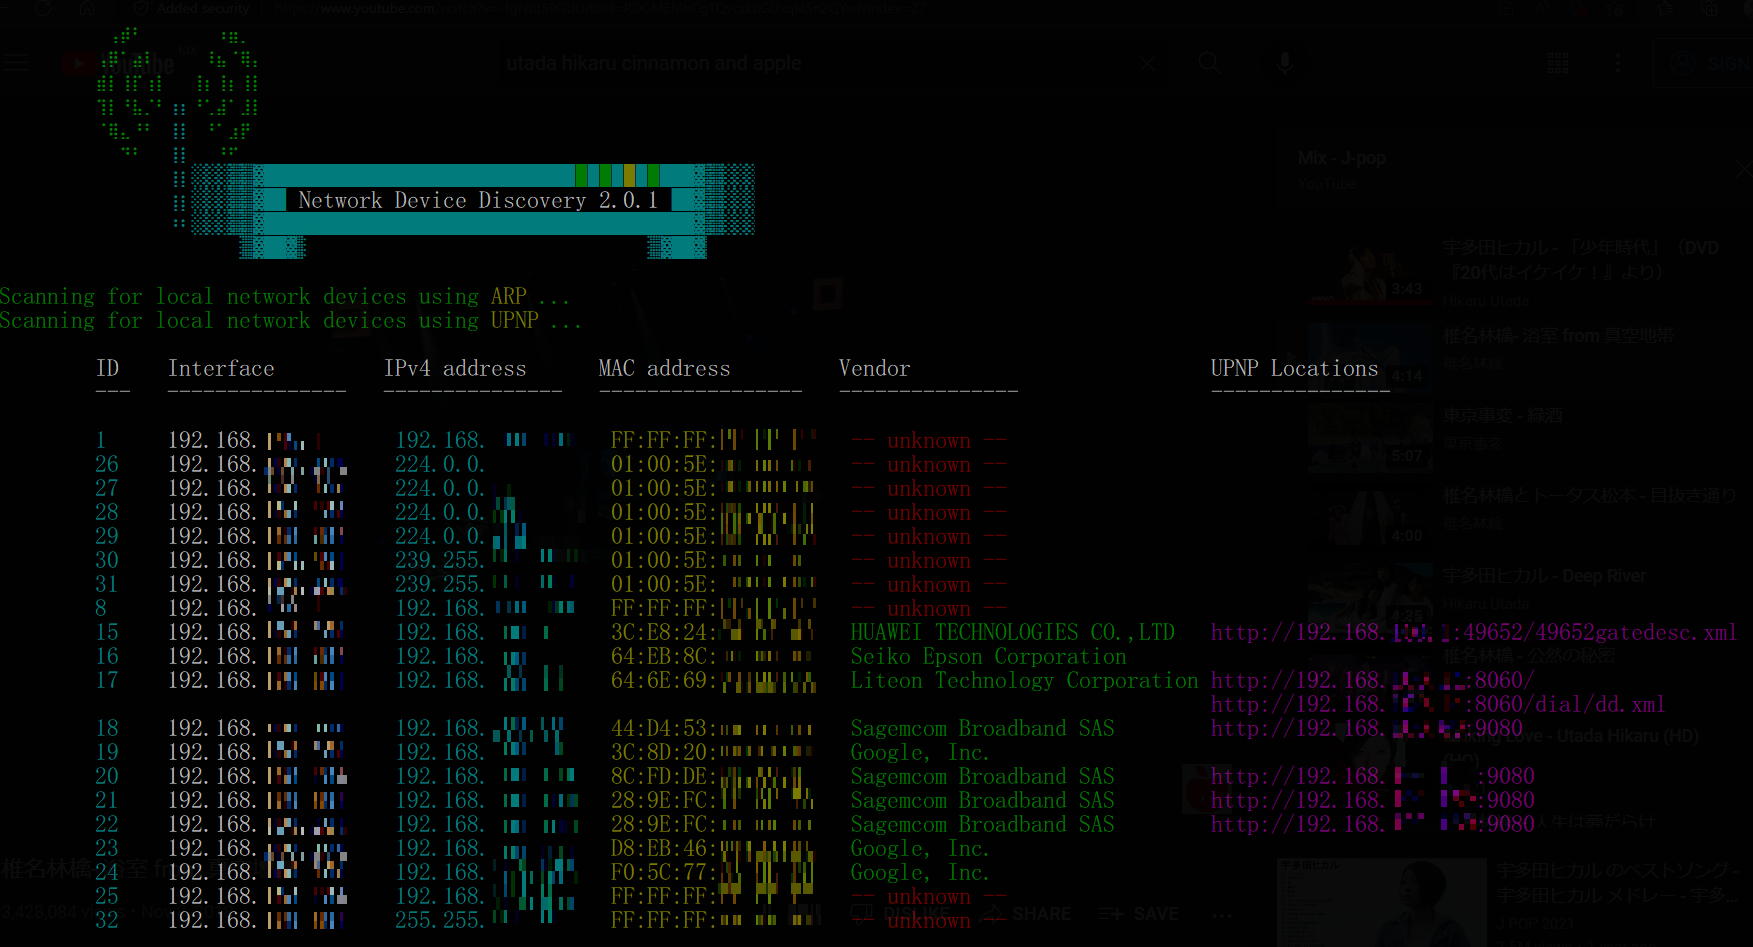
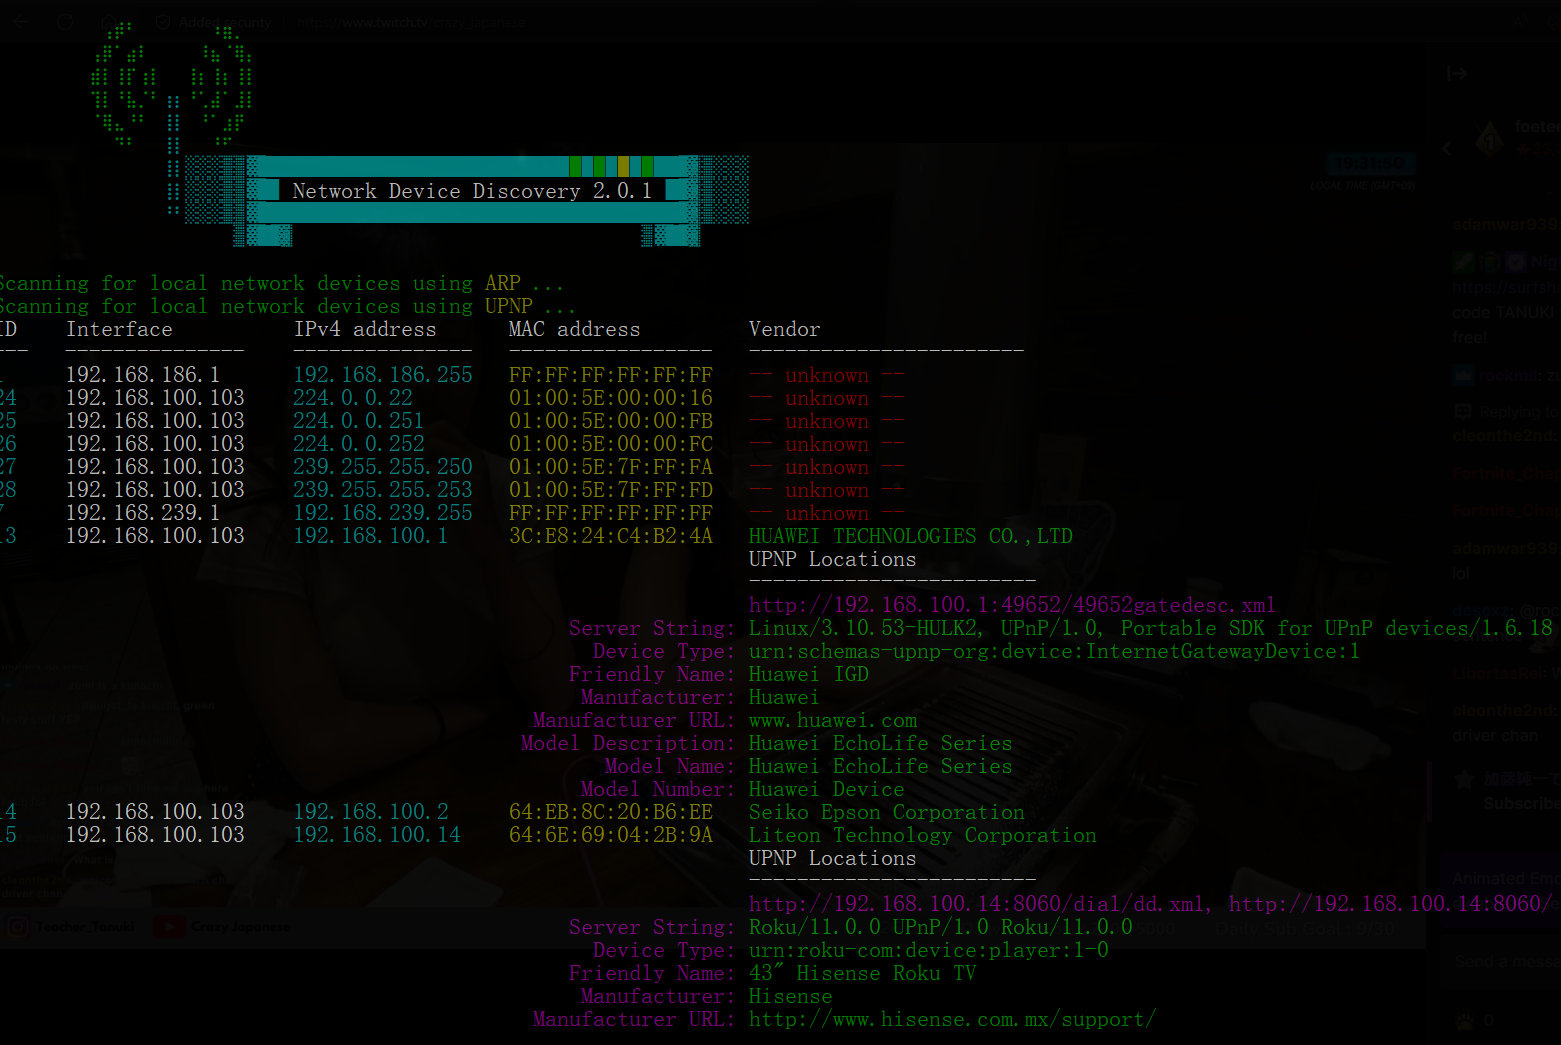
Add parsed UPNP device data to output

diff --git a/network_device_discovery.py b/network_device_discovery.py
@@ -6,11 +6,12 @@ import os
 import re
 import socket
 import subprocess
-
+import xml.etree.ElementTree as ET
 from pprint import pprint
 
 import requests
-from colorama import Fore, init as colorama_init
+from colorama import Fore
+from colorama import init as colorama_init
 
 B = Fore.BLUE
 C = Fore.CYAN
@@ -27,8 +28,12 @@ regex_mac_addr = re.compile(r"(.{2}-.{2}-.{2}-.{2}-.{2}-.{2})")
 regex_arp_interface = re.compile(r"Interface: (.+?) ---")
 regex_upnp_location = re.compile("location:[ ]*(.+)\r\n", re.IGNORECASE)
 
+xml_urn_schema = (
+    "./{urn:schemas-upnp-org:device-1-0}device/{urn:schemas-upnp-org:device-1-0}"
+)
 
-def print_status(code, clear_screen=False, device={}):
+
+def print_status(code, clear_screen=False):
     status_switch = {
         "banner": f"""{G}
          ⢠⡾⠃      ⠰⣶⡀  
@@ -45,8 +50,8 @@ def print_status(code, clear_screen=False, device={}):
         "not_windows": f"{R}[-] {RE}Please run NDD.py on a Windows machine",
         "scanning_arp": f"{G}Scanning for local network devices using {Y}ARP {G}...{RE}",
         "scanning_upnp": f"{G}Scanning for local network devices using {Y}UPNP {G}...{RE}",
-        "device_table_headers": f"{'ID':<6}{'Interface':<19}{'IPv4 address':<18}{'MAC address':<20}{'Vendor':<30}{'UPNP Locations':<25}\n"
-        + f"{'---':<6}{'---------------':<19}{'---------------':<18}{'-----------------':<20}{'-----------------------':<30}{'-----------------------':<25}",
+        "device_table_headers": f"{'ID':<6}{'Interface':<19}{'IPv4 address':<18}{'MAC address':<20}{'Vendor':<30}\n"
+        + f"{'---':<6}{'---------------':<19}{'---------------':<18}{'-----------------':<20}{'-----------------------':<30}",
     }
 
     if clear_screen:
@@ -69,7 +74,7 @@ def get_arp_table():
 
 
 def get_upnp_locations():
-    locations = set()
+    upnp_locations = set()
     ssdpDiscover = (
         "M-SEARCH * HTTP/1.1\r\n"
         + "HOST: 239.255.255.250:1900\r\n"
@@ -86,12 +91,15 @@ def get_upnp_locations():
         while True:
             data, addr = sock.recvfrom(1024)  # buffer size is 1024 bytes
             location_result = regex_upnp_location.search(data.decode("ASCII"))
-            if location_result and (location_result.group(1) in locations) == False:
-                locations.add(location_result.group(1))
+            if (
+                location_result
+                and (location_result.group(1) in upnp_locations) == False
+            ):
+                upnp_locations.add(location_result.group(1))
     except socket.error:
         sock.close()
 
-    return locations
+    return upnp_locations
 
 
 def process_upnp_locations(upnp_locations):
@@ -167,6 +175,51 @@ def combine_devices_found(arp_devices_found, upnp_devices_found):
     return devices_found
 
 
+def parse_xml_attribute(xml, xml_name):
+    try:
+        temp = xml.find(xml_name).text
+        return temp
+    except AttributeError:
+        return ""
+
+
+def get_upnp_location_data(upnp_location):
+    device_data = {}
+
+    resp = requests.get(upnp_location, timeout=2)
+    if resp.headers.get("server"):
+        device_data["Server String"] = resp.headers["server"]
+
+    try:
+        xmlRoot = ET.fromstring(resp.text)
+    except:
+        return device_data
+
+    device_data["Device Type"] = parse_xml_attribute(
+        xmlRoot, f"{xml_urn_schema}deviceType"
+    )
+    device_data["Friendly Name"] = parse_xml_attribute(
+        xmlRoot, f"{xml_urn_schema}friendlyName"
+    )
+    device_data["Manufacturer"] = parse_xml_attribute(
+        xmlRoot, f"{xml_urn_schema}manufacturer"
+    )
+    device_data["Manufacturer URL"] = parse_xml_attribute(
+        xmlRoot, f"{xml_urn_schema}manufacturerURL"
+    )
+    device_data["Model Description"] = parse_xml_attribute(
+        xmlRoot, f"{xml_urn_schema}modelDescription"
+    )
+    device_data["Model Name"] = parse_xml_attribute(
+        xmlRoot, f"{xml_urn_schema}modelName"
+    )
+    device_data["Model Number"] = parse_xml_attribute(
+        xmlRoot, f"{xml_urn_schema}modelNumber"
+    )
+
+    return device_data
+
+
 def main():
     colorama_init(convert=True)
 
@@ -193,24 +246,27 @@ def main():
     print_status("device_table_headers")
 
     # TODO
-    # This was quick and dirty to test formatting, clean-up
+    # Clean-up
+    # Determine better layout as more info is added
     for device in devices_found.values():
-        if len(device["upnp_locations"]) == 0:
-            print(
-                f'{C}{device["num"]:<6}{W}{device["interface"]:<19}{C}{device["address"]:<18}{Y}{device["mac"]:<20}{G}{device["vendor"]:<30}{M}{"":<25}'
-            )
-        elif len(device["upnp_locations"]) == 1:
-            print(
-                f'{C}{device["num"]:<6}{W}{device["interface"]:<19}{C}{device["address"]:<18}{Y}{device["mac"]:<20}{G}{device["vendor"]:<30}{M}{device["upnp_locations"][0]:<25}'
-            )
-        elif len(device["upnp_locations"]) > 1:
-            print(
-                f'{C}{device["num"]:<6}{W}{device["interface"]:<19}{C}{device["address"]:<18}{Y}{device["mac"]:<20}{G}{device["vendor"]:<30}{M}{device["upnp_locations"][0]:<25}'
-            )
-            for d in device["upnp_locations"][1:]:
-                print(
-                    f"                                                                                             {M}{d:<25}"
-                )
+
+        print(
+            f'{C}{device["num"]:<6}{W}{device["interface"]:<19}{C}{device["address"]:<18}{Y}{device["mac"]:<20}{G}{device["vendor"]:<30}'
+        )
+
+        already_printed = False
+
+        if device["upnp_locations"]:
+            print(f'{" "*63}{W}UPNP Locations')
+            print(f'{" "*63}{W}------------------------')
+            print(f'{" "*63}{M}{", ".join(device["upnp_locations"])}')
+
+            for l in device["upnp_locations"]:
+                upnp_data = get_upnp_location_data(l)
+                if upnp_data and not already_printed:
+                    for key, value in upnp_data.items():
+                        print(f"{M}{key:>61}: {G}{value}")
+                        already_printed = True
 
 
 if __name__ == "__main__":

diff --git a/README.md b/README.md
@@ -1,9 +1,22 @@
 # Network Device Discovery
-A tool for discovering devices on the local network.
+A tool for discovering devices on the local network using ARP, UPNP.
 
 Currently this tool only works on Windows.
 
 ![screenshot](https://github.com/computermadscientist/network_device_discovery/blob/main/resources/screenshot_001.png)
+
+## Discovery Methods
+
+### Address Resolution Protocol (ARP)
+
+1. Get the current ARP cache tables for all interfaces.
+2. Parse the ARP caches tables for individual device entries.
+
+### Universal Plug and Play (UPNP)
+
+1. Send M-SEARCH request via Multicast UDP
+2. Receive Unicast UDP response from compatible devices
+3. Get and parse XML description file from device
 
 ## Installation
 
@@ -22,3 +35,4 @@ To run the script, you simply use the Python command:
 ```bash
 $ python network_device_discovery.py
 ```
+Results will be displayed to the terminal.
